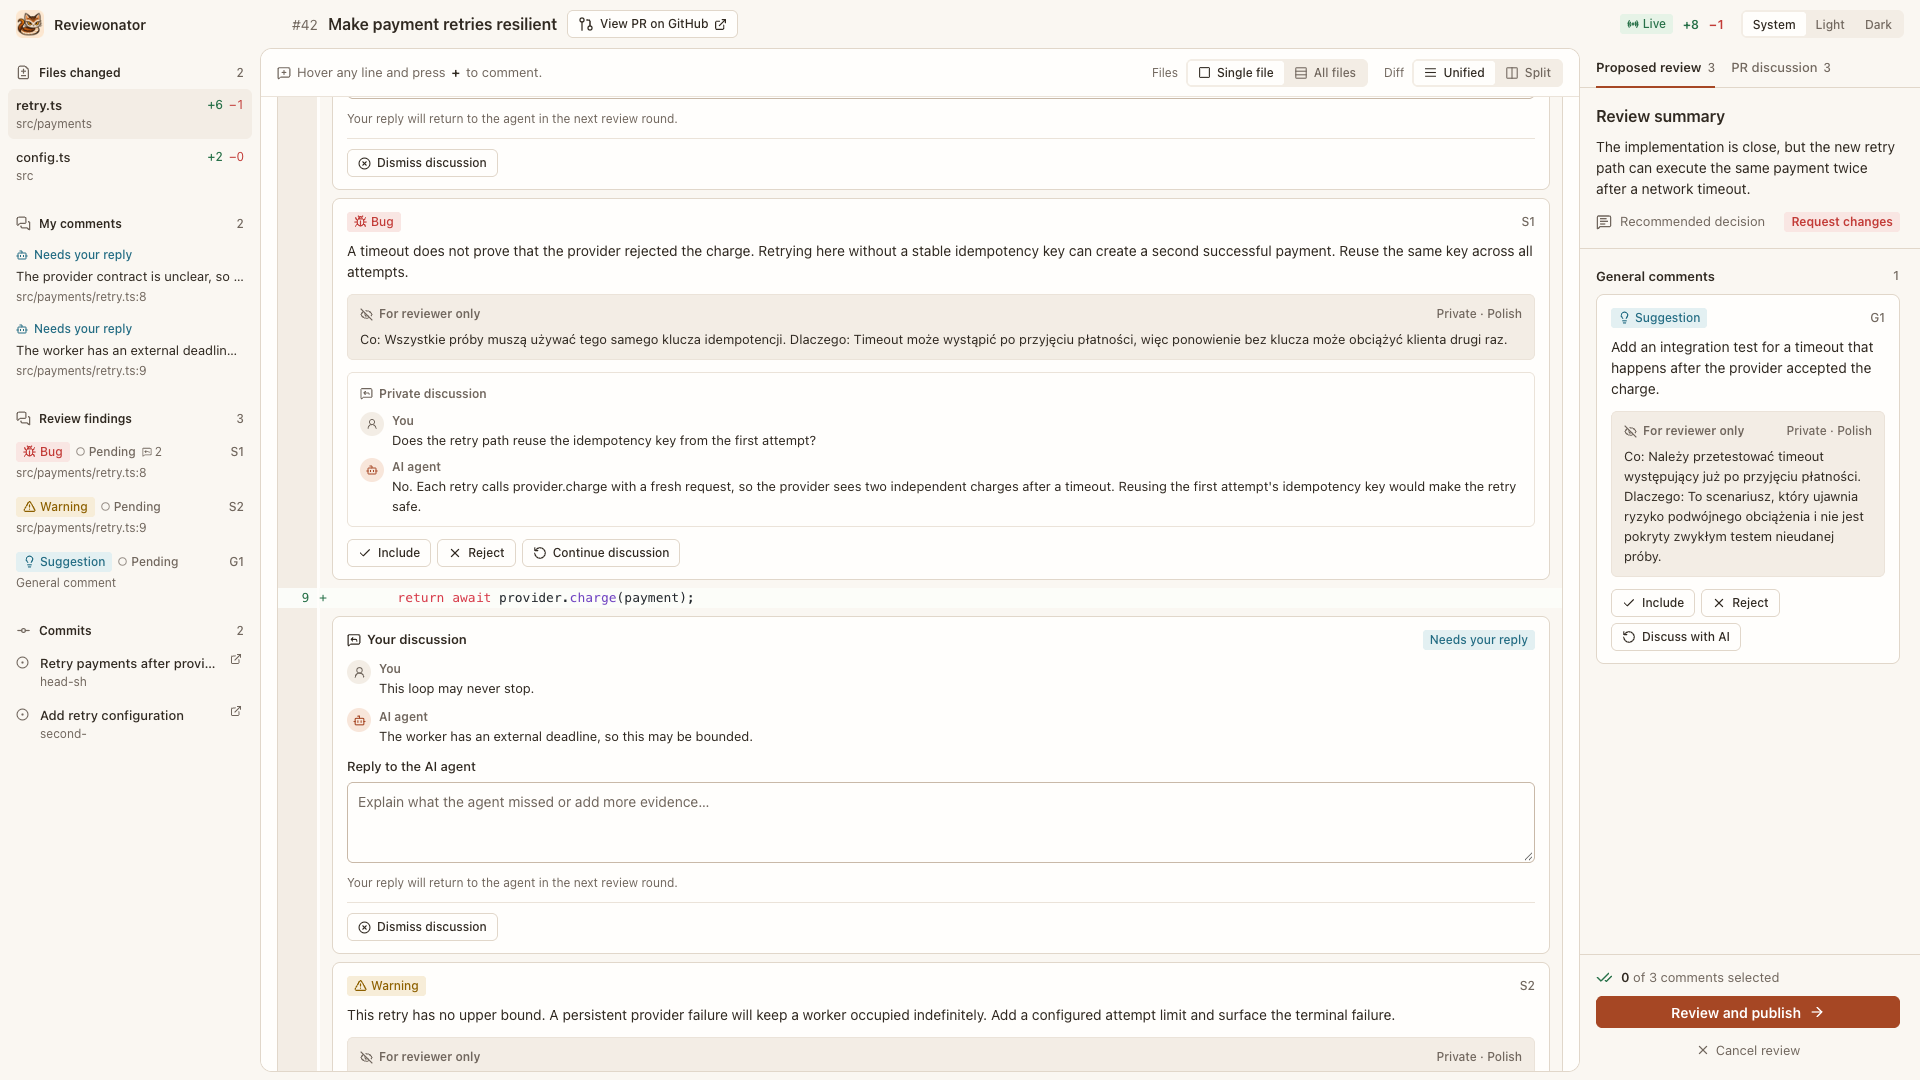
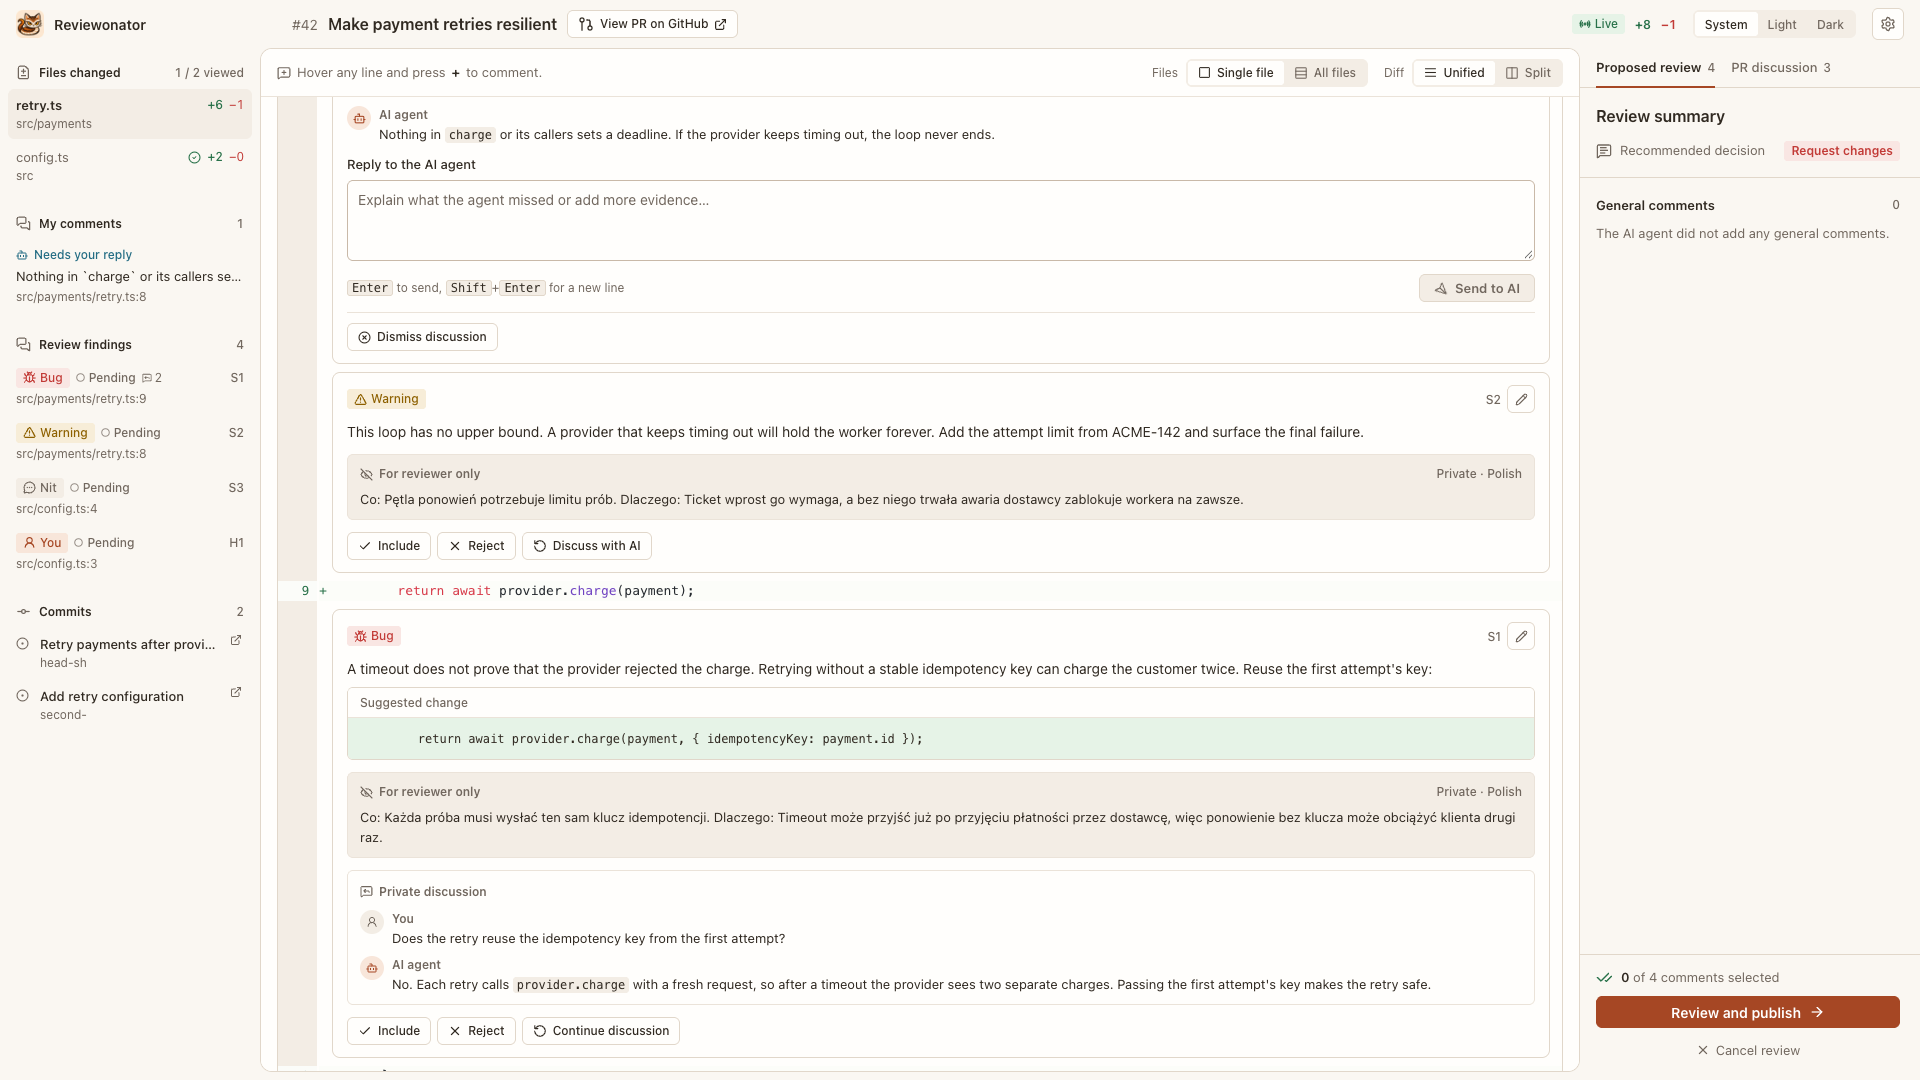
Bring the README and screenshots up to date
Name the authors line, Markdown, and themes among the features, describe
the early mode in How it works, replace the general-comment step with the
review summary, and retake the four screenshots on the current UI.

diff --git a/README.md b/README.md
@@ -13,22 +13,24 @@ Reviewonator turns an AI-generated pull request review into a focused, local rev
 Reviewonator supports Claude Code and Codex through one shared review workflow.
 
 <p align="center">
-  <img src="docs/assets/reviewonator-diff.png" width="1280" alt="Reviewonator main review workspace showing changed code, inline findings, and the review summary">
+  <img src="docs/assets/reviewonator-diff.png" width="1280" alt="Reviewonator review workspace showing About this PR, changed code, a private discussion, and inline findings">
 </p>
 
 See the [feature guide](docs/features.md) for a visual walkthrough of the review workspace, comment decisions, pull request discussion, and safe publishing flow.
 
 ## Why Reviewonator?
 
-- Start from **About this PR**: a short private note on what the change really does, written from the ticket and the code rather than the author's description.
+- Start from **About this PR**: a short private note on what the change really does, written from the ticket and the code rather than the author's description, with the authors of the pull request, its commits, and the ticket.
 - Start reading at once in early mode: the diff opens right away and the AI findings follow when the agent finishes.
 - Review findings appear next to the exact changed lines, with clearly visible severity levels.
 - Read existing conversation comments, submitted reviews, and inline review comments without leaving the diff workspace.
 - Browse one file at a time or scroll through all changed files.
 - Switch between unified and side-by-side diffs.
+- Choose the **Paper Copper** or **Slate** theme, light or dark. Reviewonator remembers it and your diff layout for the next review.
 - Expand context beyond the patch without exposing a GitHub token to the browser.
 - Review against your project's own rules: add a `review` skill to the repository and every review follows it.
 - Keep private reviewer explanations separate from comments sent to the pull request.
+- Read comments, explanations, and replies rendered as Markdown, with GitHub suggestion blocks labelled **Suggested change**.
 - Discuss any proposed finding with the AI agent live and send a reply directly from its card.
 - Write your own comments on any diff line next to the agent's findings.
 - Mark files **Viewed**, in sync with GitHub, so the ones you understood collapse out of the way.
@@ -40,7 +42,7 @@ See the [feature guide](docs/features.md) for a visual walkthrough of the review
 
 1. The installed Claude Code or Codex skill performs a pull request review and writes a validated JSON document.
 2. The `reviewonator` executable retrieves pull request data through your authenticated GitHub CLI session.
-3. A local loopback-only web application opens in your browser.
+3. A local loopback-only web application opens in your browser. In [early mode](#review-modes) it opens before the agent has finished, and the agent's note and findings arrive when they are ready.
 4. You inspect and edit the proposed review.
 5. Reviewonator publishes only the selected content after an explicit confirmation.
 
@@ -162,14 +164,13 @@ The live Reviewonator workspace opens once for the whole review. In the applicat
 1. Read **About this PR** above the diff to see what the change is for.
 2. Read the private reviewer explanation for each finding.
 3. Edit the public comment with the pencil on its card if needed.
-4. Select only the findings you want to publish.
-5. Add an optional general comment.
-6. Open the publish preview and choose the GitHub review event.
-7. Confirm the exact payload.
+4. Select only the findings and comments you want to publish.
+5. Open the publish preview, choose the GitHub review event, and optionally write a review summary.
+6. Confirm the exact payload.
 
 Click **+** beside a diff line, write your comment, and choose **Add comment** to put it straight into the review, or **Send to AI** to have the agent check it first. Your own comments are marked **You**, start pending like every finding, and the agent never changes them or your edits unless you discuss that comment with it.
 
-You can start a private live discussion either on an AI finding or on any diff line. The open workspace sends your message to the agent, shows its answer in place, and stays open for follow-up rounds. These discussions are never published directly to GitHub.
+You can start a private live discussion either on an AI finding or on any diff line. The open workspace sends your message to the agent, shows its answer in place, and stays open for follow-up rounds. In early mode, your messages wait until the agent's findings arrive. These discussions are never published directly to GitHub.
 
 The review summary is optional for every event, including **Approve** and **Request changes**.
 
